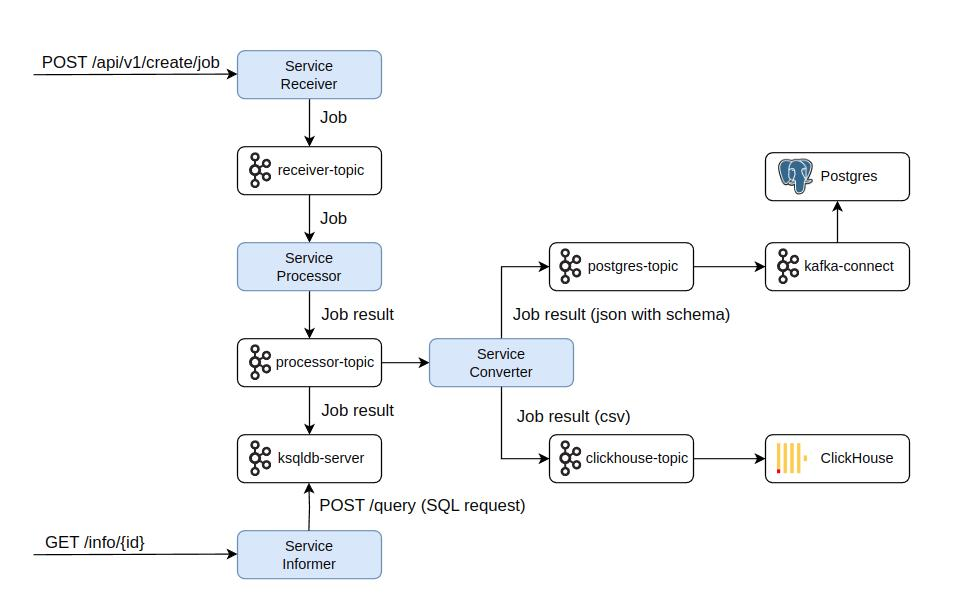
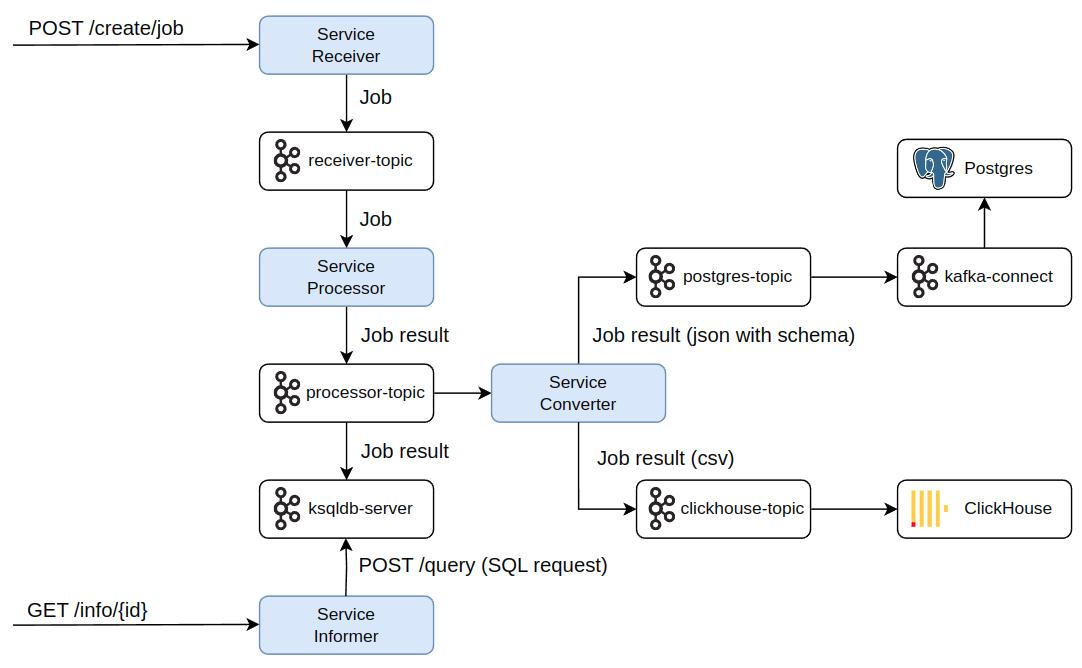
fixed data

Changed region(s): [[0.0311, 0.0, 0.9938, 0.9935]]

diff --git a/project/cmd/receiver/main.go b/project/cmd/receiver/main.go
@@ -48,7 +48,7 @@ func main() {
 	h.Run()
 
 	r := router.New()
-	r.POST("/api/v1/create/job", middleware.Middleware(log, h.CreateJob))
+	r.POST("/create/job", middleware.Middleware(log, h.CreateJob))
 	r.GET("/metrics", metrics.Metrics())
 
 	server := fasthttp.Server{

diff --git a/project/README.md b/project/README.md
@@ -18,7 +18,7 @@
 Сервис получает запрос через REST
 
 ```
-curl --request POST 'http://127.0.0.1:8001/api/v1/create/job'
+curl --request POST 'http://127.0.0.1:8001/create/job'
 
 {"id":"b31b7446-20f7-4add-adea-157bac7fe73b","create_date":"2024-01-27T12:34:50.594423357Z","sleep":99,"data_size":1024}
 ```
@@ -408,7 +408,7 @@ make compose-down
 
 ## Проверка
 
-Нагрузка на POST /api/v1/create/job создается через yandex-tank
+Нагрузка на POST /create/job создается через yandex-tank
 
 Запускается нагрузка 25 RPS на 300 секунд
 ```
